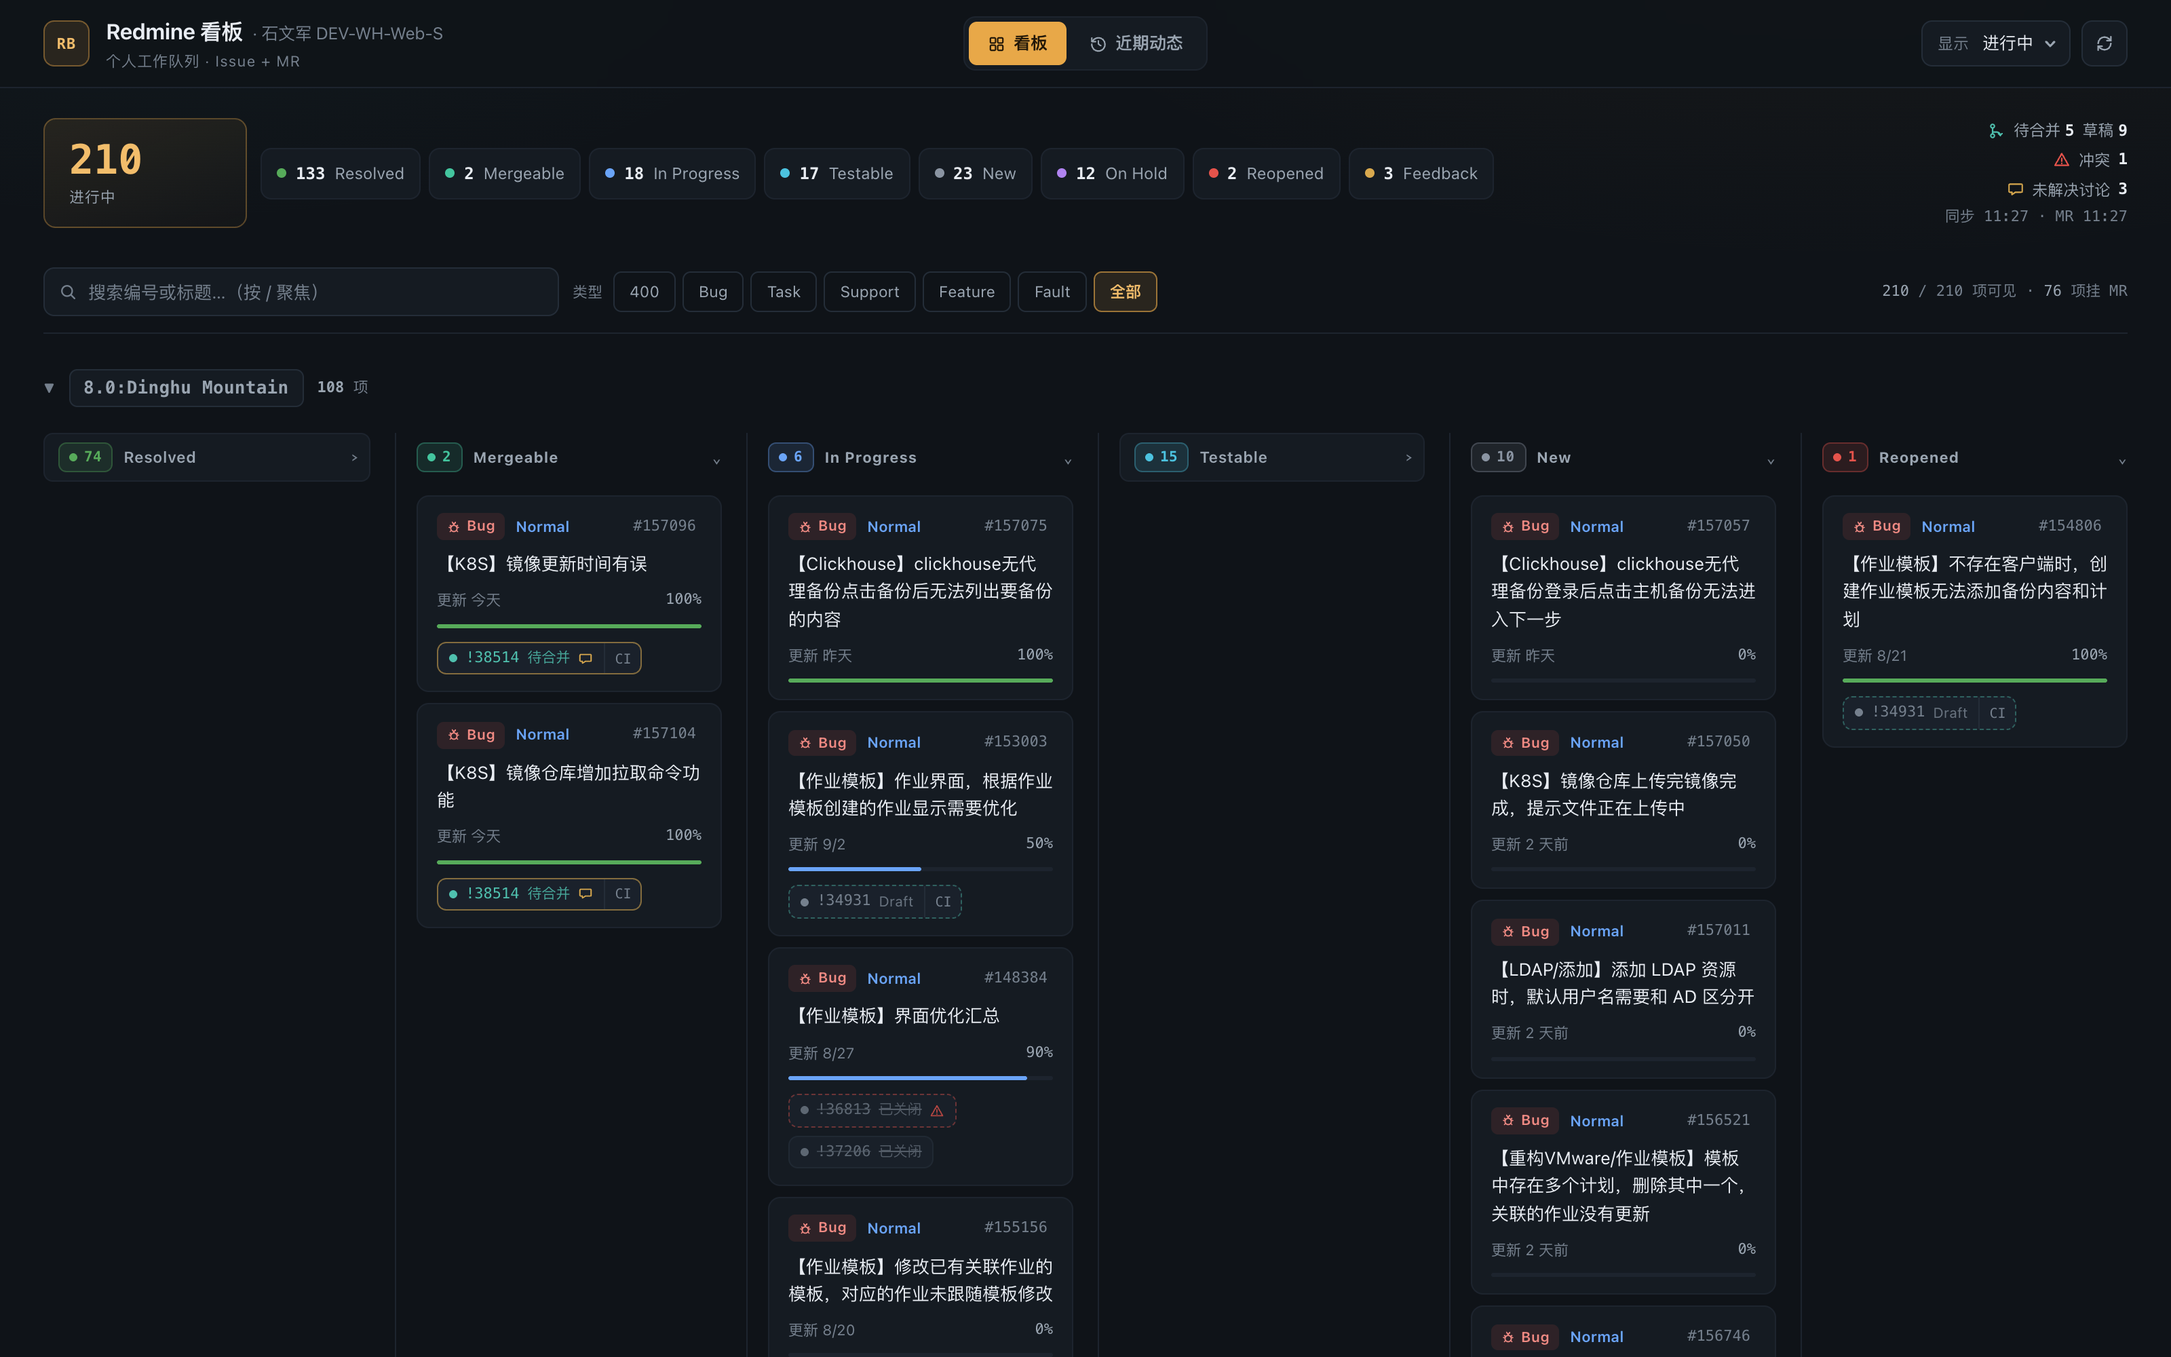
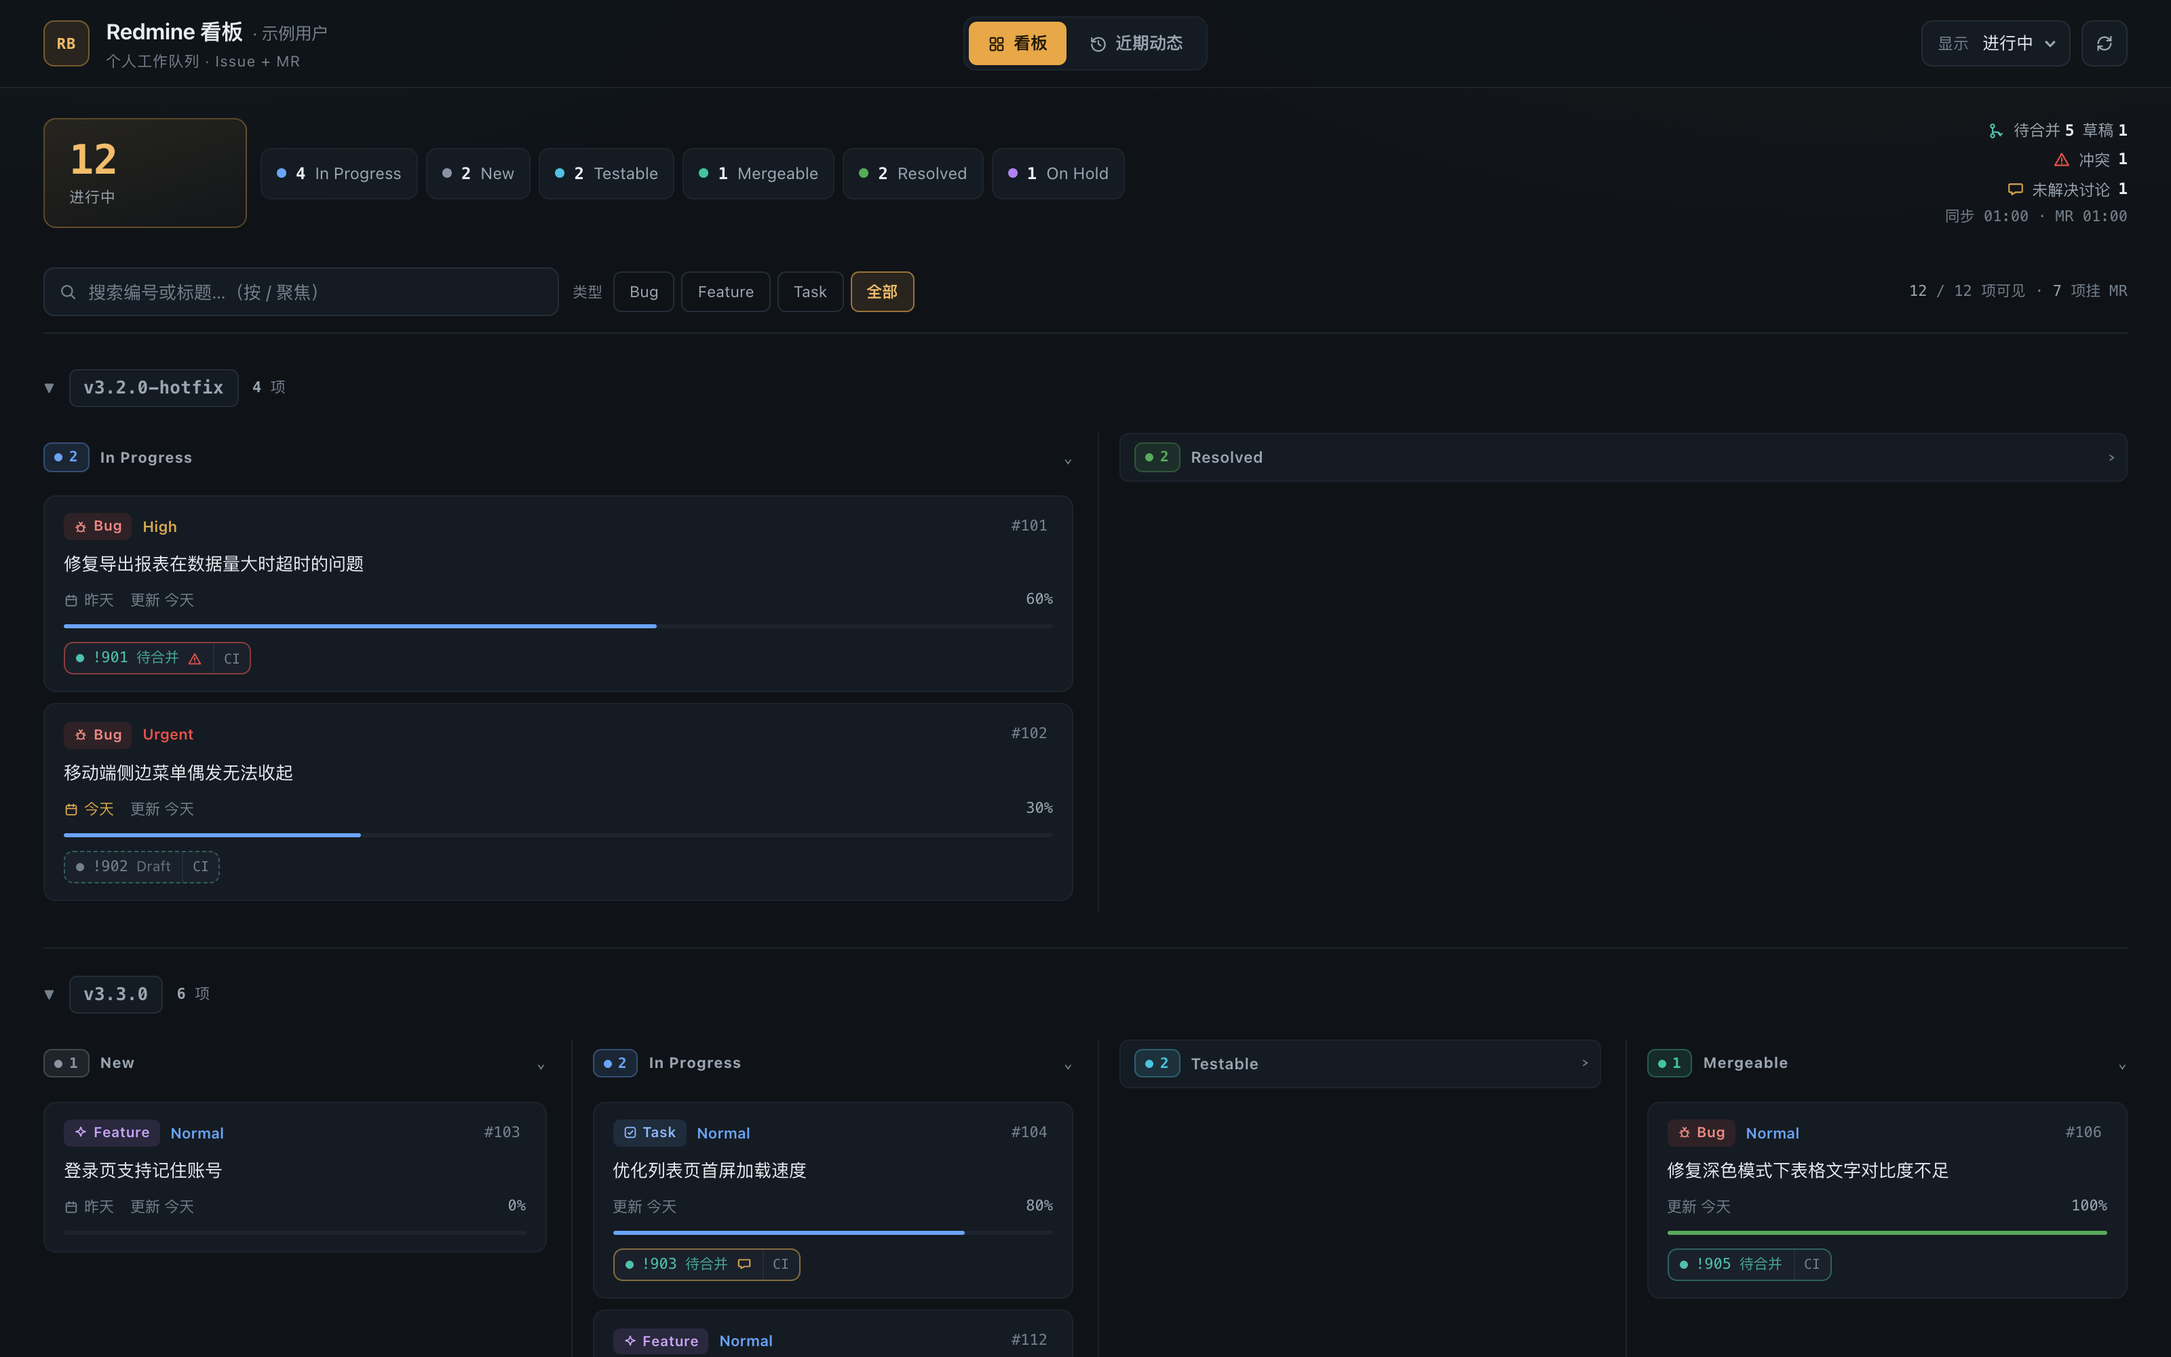
docs: README 重写为新手友好版；截图改为全演示数据；新增跨平台统一入口 start.js
- 截图经 API mock 重新生成（示例用户 + 通用任务标题），不再含真实姓名/公司信息
- README 按同事视角重组：三步跑起来 → 凭据 → 日常使用 → 常见问题 → 进阶靠后
- node start.js 三平台同命令（自动读 redmine CLI 凭据），.command/.bat 降为双击包装

diff --git a/start.js b/start.js
@@ -1,0 +1,38 @@
+#!/usr/bin/env node
+/**
+ * 通用启动入口 —— 所有平台同一命令：node start.js
+ *
+ * 自动读取 ~/.redmine-cli.yaml 里的 server 和 api_key（存在且未设环境变量时），
+ * 然后启动 server.js。平台专属的 .command / .bat / .sh 都只是本命令的双击包装。
+ *
+ * 用法：
+ *   node start.js
+ *   REDMINE_URL=https://xxx REDMINE_API_KEY=xxx node start.js
+ */
+const { spawn } = require('child_process');
+const fs = require('fs');
+const os = require('os');
+const path = require('path');
+
+// 从 redmine CLI 配置自动补凭据（环境变量优先）
+const cfgPath = path.join(os.homedir(), '.redmine-cli.yaml');
+if (fs.existsSync(cfgPath)) {
+  const text = fs.readFileSync(cfgPath, 'utf8');
+  const pick = (key) => {
+    const m = text.match(new RegExp('^\\s*' + key + ':\\s*(.+)$', 'm'));
+    return m ? m[1].trim().replace(/^["']|["']$/g, '') : '';
+  };
+  if (!process.env.REDMINE_URL) process.env.REDMINE_URL = pick('server');
+  if (!process.env.REDMINE_API_KEY) process.env.REDMINE_API_KEY = pick('api_key');
+}
+
+if (!process.env.PORT) process.env.PORT = '7788';
+
+const child = spawn(process.execPath, [path.join(__dirname, 'server.js')], {
+  stdio: 'inherit',
+  env: process.env,
+});
+child.on('close', (code) => process.exit(code == null ? 0 : code));
+['SIGINT', 'SIGTERM'].forEach((sig) => {
+  process.on(sig, () => child.kill(sig));
+});

diff --git a/README.md b/README.md
@@ -1,147 +1,119 @@
-# Redmine 个人看板
+# Redmine 看板
 
-一个轻量的可视化看板，聚合你在 Redmine 上的任务/Bug，按版本分组、状态分类展示，并自动关联你在 GitLab 上的 Merge Request 状态。替代慢且难用的 Redmine 网页筛选。
+把你的 Redmine 任务变成一块可视化看板，并自动关联你在 GitLab 的 Merge Request 状态。
 
 ![看板](docs/screenshot-board.png)
 
-![卡片上的 MR 徽标](docs/screenshot-mr.png)
+![卡片上的 MR 徽标（待合并 / Draft / 已合并 / 冲突 / 未解决讨论 / CI）](docs/screenshot-mr.png)
 
 ![移动端](docs/screenshot-mobile.png)
 
-## 特性
+## 它能帮你做什么
 
-- 📋 **按版本分组 + 状态分列**：一眼看清每个版本下各状态的任务分布
-- 🔀 **GitLab MR 状态同步**：issue 卡片直接显示关联 MR 的待合并/草稿/已合并/冲突状态，点击直达 MR 页面；opened 状态的 MR 可点 `CI` 按需查询流水线结果
-- 🎨 **状态颜色区分**：In Progress / Reopened / Resolved / Feedback 等各有配色
-- 🕐 **近期动态**：时间线展示你最近更新过的 issue（含 MR 徽标）
-- ⚡ **性能**：Redmine 分页并发拉取、聚合结果内存缓存、MR 独立请求不阻塞首屏、折叠列懒渲染、每 5 分钟自动同步
-- 📚 **完整分页**：自动读取 Redmine 的全部分页，搜索不会漏掉旧 issue
-- 🔒 **凭据安全**：Key 只存在后端（环境变量或本地 CLI 配置），前端拿不到
-- 🧩 **零依赖**：后端单文件 Node.js，前端单文件 HTML，无需 npm install
-- 🔗 **点击跳转**：任意卡片点击直达 Redmine 原文
-- 📱 **移动端适配**：响应式布局 + 触屏优化（40px+ 点击目标、iOS 输入框缩放与缓存兼容），手机浏览器直接访问
+- **一屏看清手上的活**：按版本分组、按状态分列，优先级、截止日期、进度一目了然
+- **自动关联 MR**：卡片上直接显示你的 GitLab MR 状态——待合并、Draft、已合并、⚠冲突、💬未解决讨论；点 `CI` 还能查流水线每个 job 的结果
+- **近期动态**：最近改过哪些任务，一条时间线
+- **搜索和筛选**：按 `/` 聚焦搜索，类型筛选，折叠状态会记住
+- **手机也能用**：响应式布局 + 触屏优化，浏览器直接访问
 
-## 快速开始
+## 三步跑起来
 
-### 方式一：零配置启动（推荐，适合自己电脑）
-
-前提：装好 Node.js（≥14），并且本机已配置过 redmine CLI（`redmine auth login`）。GitLab MR 状态会在检测到 glab CLI 登录后自动启用，无需额外配置。
+前提：电脑装了 [Node.js](https://nodejs.org)（≥14）。三条命令，三个平台（macOS / Windows / Linux）完全一样：
 
 ```bash
-bash start.sh          # 或 macOS 直接双击「Redmine看板.command」
+git clone https://github.com/OwenShi/redmine-dashboard.git
+cd redmine-dashboard
+node start.js
 ```
 
-浏览器自动打开 **http://localhost:7788**。凭据从 `~/.redmine-cli.yaml` 和 glab CLI 配置自动读取，不落仓库。
+然后浏览器打开 **http://localhost:7788**。（macOS 的 `Redmine看板.command`、Windows 的 `start.bat` 只是这条命令的双击包装，喜欢哪个用哪个。）
 
-### 方式二：环境变量启动
+第一次跑之前需要配一次凭据，见下。
+
+## 凭据怎么配（只需一次）
+
+看板需要知道「你是谁」才能拉你的任务。两种方式任选：
+
+**方式一：装 redmine CLI（推荐，之后全自动）**
+
+装好 CLI 后执行一次 `redmine auth login`。`start.js` 会自动读取它的配置，什么都不用再管。
+
+**方式二：环境变量（不想装 CLI）**
+
+1. 打开 Redmine 网页 → 我的帐户 → 右侧「API 访问密钥」→ 显示
+2. 启动时带上：
 
 ```bash
-REDMINE_API_KEY=你的key node server.js
-# 可选：GITLAB_URL / GITLAB_TOKEN 覆盖 GitLab 配置
+REDMINE_URL=https://你的redmine地址 REDMINE_API_KEY=你的key node start.js
 ```
 
-API Key 获取方式：Redmine → 我的帐户 → 右侧「API 访问密钥」→ 显示/重置
+**想显示 MR 状态（可选）**：装 [glab CLI](https://gitlab.com/gitlab-org/cli) 并 `glab login`，或设置 `GITLAB_TOKEN` 环境变量。不配也能用，只是卡片上没有 MR 徽标。
 
-### 给其他同事使用
+> 凭据只存在你自己电脑上（redmine CLI / glab 的本地配置或环境变量），仓库里没有任何人的密钥。
 
-1. 把仓库地址发给他，clone（或直接 zip 发目录）
-2. 凭据准备，两条路任选：
-   - **推荐**：装 redmine CLI 并 `redmine auth login`（之后启动脚本全自动，MR 状态需要 `glab login` 或设置 `GITLAB_TOKEN`）
-   - **没有 redmine CLI 也能用**：去 Redmine → 我的帐户 → 显示 API 访问密钥，然后 `REDMINE_URL=https://你的redmine地址 REDMINE_API_KEY=你的key node server.js`
-3. 启动（三平台都支持）：
-   - **macOS**：双击 `Redmine看板.command`
-   - **Windows**：双击 `start.bat`
-   - **Linux**：`bash start.sh`
-4. 每个人的凭据都读自各自电脑的本地配置（`~/.redmine-cli.yaml`、glab CLI 配置，macOS/Linux/Windows 路径均已适配），仓库里没有任何敏感信息
+## 日常使用
 
-## 使用说明
+- **两个标签**：看板（按版本分组） / 近期动态（最近 N 天改动）
+- **MR 徽标**：`!901 待合并` 这样的 token 就是关联的 MR，点击直达 MR 页面；右侧 `CI` 按钮弹出流水线详情（每个 job 的状态和用时，再点可刷新）；⚠红色=有冲突，💬琥珀色=有未解决讨论
+- **搜索**：按 `/` 聚焦搜索框，Esc 清除；可以搜编号或标题
+- **折叠**：点版本行或状态列头可以收起/展开，偏好会记住
+- **刷新**：右上角同步按钮强制刷新；页面开着时每 5 分钟自动同步
+- 页脚的 `b0910.x` 是构建号——怀疑页面没更新时核对它
 
-- **看板视图**：默认显示进行中（open）的任务。右上角下拉可切换「全部 / 仅已关闭」
-- **近期动态**：顶部切换标签，查看近 N 天你更新过的 issue
-- **MR 徽标**：卡片下方出现 `!38287` 样式的 token 即为关联 MR；`待合并/草稿/已合并/已关闭/⚠冲突` 一目了然，点 token 打开 MR 页面，点右侧 `CI` 按需查询流水线（再点一次强制刷新）
-- **刷新**：右上角同步按钮强制刷新；页面每 5 分钟在可见时自动同步
-- **交互技巧**：按 `/` 快速聚焦搜索（Esc 清除）；点版本区头/状态列头折叠，折叠状态会记住（刷新不丢）；一个 issue 挂多个 MR 时默认显示前 4 个，点 `+N` 展开；页脚的 `b0910.3` 是构建号，核对版本用
+## 常见问题
 
-## GitLab MR 关联机制
+| 问题 | 处理 |
+|------|------|
+| 显示「MR 状态不可用」 | `glab login` 一次，或设置 `GITLAB_TOKEN`；顶部提示条有重试按钮 |
+| 页面看起来是旧版本 | 核对页脚构建号；强制刷新（页面本身禁止缓存，一般不会发生） |
+| 数据不是最新的 | 后端有 60 秒缓存；点右上角同步按钮立即刷新 |
+| 换了一台电脑 | 凭据是跟着电脑走的，新机器重新配一次凭据即可 |
 
-后端拉取你创建的最近 100 条 MR（含 opened + 近期 merged/closed），前端按三级规则匹配到 issue，命中任意一级即挂上徽标：
+## 部署成常驻服务（可选）
 
-1. issue 自定义字段「分支名称」=== MR `source_branch`（精确，最可靠；若你的 Redmine 实例没有此字段，自动跳过，2/3 级匹配是通用的）
-2. MR 标题中的 `Refs #N` / `Fix #N` 引用
-3. 分支名中的数字 token（如 `hotfix/bug-150117-web` → 150117）
+不想每次手动启动，可以挂在服务器上：
 
-GitLab token 自动从 glab CLI 配置读取；不可用时看板正常工作，仅提示「MR 状态不可用」。可用环境变量 `GITLAB_URL` / `GITLAB_TOKEN` 覆盖。
+**Linux**
 
-## 性能设计
+```bash
+scp -r redmine-dashboard/ user@server:~/
+ssh user@server
+cd redmine-dashboard
+REDMINE_API_KEY=你的key REDMINE_URL=https://你的redmine nohup node server.js > board.log 2>&1 &
+```
+
+**Windows**：拷贝目录 + 装 Node.js 后，用 [NSSM](https://nssm.cc/) 注册服务（开机自启）：
+
+```bat
+nssm install redmine-board "C:\Program Files\nodejs\node.exe" "C:\redmine-dashboard\server.js"
+nssm set redmine-board AppEnvironmentExtra REDMINE_URL=https://你的redmine REDMINE_API_KEY=你的key
+nssm start redmine-board
+```
+
+> ⚠ 服务器可从公网访问时，务必加访问控制（防火墙白名单 / SSH 隧道 / Nginx + Basic Auth），否则工单数据对任何能连到端口的人可见。
+
+## 实现说明（进阶，用不上可跳过）
+
+**issue 和 MR 怎么关联上的**：后端拉取你创建的最近 100 条 MR，前端按三级规则匹配——① issue 自定义字段「分支名称」=== MR 分支名（精确；实例相关字段，没有则自动跳过）→ ② MR 标题里的 `Refs #编号` / `Fix #编号` → ③ 分支名里的数字（如 `hotfix/101-xxx` → 101）。命中任意一级即挂徽标，命中多级去重。
+
+**性能设计**：
 
 | 机制 | 说明 |
 |------|------|
-| 并发分页 | Redmine 分页先拉第一页拿总数，剩余页并发（上限 6），约 N×RTT → 2×RTT |
+| 并发分页 | Redmine 分页并发拉取（上限 6），约 N×RTT → 2×RTT |
 | 聚合缓存 | overview/recent 结果内存缓存 60s；`?force=1` 绕过 |
-| MR 缓存 | MR 列表缓存 120s；pipeline 按需查询缓存 60s |
-| 两段式渲染 | issue 先渲染，MR 数据独立请求到达后响应式补上徽标 |
-| 懒渲染 | 折叠的版本/状态列不渲染卡片 DOM，展开时才创建 |
-| 自动同步 | 每 5 分钟且页面可见时静默刷新，不闪骨架屏 |
+| MR 缓存 | MR 列表 120s；CI 按需查询 60s |
+| 两段式渲染 | issue 先渲染，MR 数据到达后增量补上徽标 |
 
-## 数据规模说明
-
-默认加载 open 状态。后端会自动处理 Redmine 的分页限制，因此搜索结果完整；切换「全部」时数据量较大，首次加载会稍慢属正常。
-
-## 部署到服务器
-
-本看板代码零改动即可部署到任意装了 Node.js（≥14）的服务器：
-
-### Linux
-
-```bash
-# 1. 拷贝整个目录到服务器
-scp -r redmine-dashboard/ user@server:~/
-
-# 2. 登录服务器，配好环境变量后启动
-ssh user@server
-cd redmine-dashboard
-REDMINE_API_KEY=你的key REDMINE_URL=https://redmine.example.com/redmine node server.js
-```
-
-常驻可用 nohup / systemd / pm2：
-```bash
-REDMINE_API_KEY=你的key nohup node server.js > dashboard.log 2>&1 &
-# 或 pm2 start server.js --name redmine-board
-```
-
-### Windows
-
-1. 把整个目录拷到服务器（如 `C:\redmine-dashboard`），安装 [Node.js LTS](https://nodejs.org/)
-2. 凭据二选一：
-   - 把自己电脑上的 `~/.redmine-cli.yaml` 拷到该机 `C:\Users\<用户名>\.redmine-cli.yaml`（MR 状态还需设置环境变量 `GITLAB_TOKEN`，或安装 glab CLI 并登录）
-   - 或直接设环境变量 `REDMINE_URL` / `REDMINE_API_KEY` / `GITLAB_TOKEN`
-3. 防火墙放行端口：`netsh advfirewall firewall add rule name="redmine-board" dir=in action=allow protocol=TCP localport=7788`
-4. 启动：双击 `start.bat`（调试用）；常驻自启推荐用 [NSSM](https://nssm.cc/) 注册为 Windows 服务：
-   ```bat
-   nssm install redmine-board "C:\Program Files\nodejs\node.exe" "C:\redmine-dashboard\server.js"
-   nssm set redmine-board AppDirectory C:\redmine-dashboard
-   nssm set redmine-board AppEnvironmentExtra REDMINE_URL=https://redmine.example.com/redmine REDMINE_API_KEY=你的key GITLAB_TOKEN=你的token
-   nssm start redmine-board
-   ```
-
-绑定的是 `0.0.0.0`，同内网的机器可直接通过 `http://服务器IP:7788` 访问。
-
-> ⚠ 若服务器可从公网访问，请务必加访问控制（安全组白名单 / SSH 隧道 / Nginx + Basic Auth），否则工单数据对任何能连到端口的人可见。
-
-## 文件说明
+**文件说明**：
 
 | 文件 | 作用 |
 |------|------|
-| `server.js` | 后端：代理 Redmine API + 数据聚合，零 npm 依赖 |
-| `index.html` | 前端：看板页面，内联样式，CDN 引入 Alpine.js |
-| `.env.example` | 配置模板 |
-| `README.md` | 本文件 |
-
-## 技术栈
-
-- **后端**：Node.js 内置模块（http/https/fs/os/path），零依赖
-- **前端**：原生 HTML/CSS/JS + Alpine.js（CDN）+ 内联 SVG 图标
-- **数据源**：Redmine REST API + GitLab REST API（内存缓存，无外部存储）
+| `start.js` | 通用启动入口（读凭据、起服务），三平台同一命令 |
+| `server.js` | 后端：代理 Redmine/GitLab API + 聚合缓存，零 npm 依赖 |
+| `index.html` | 前端：单文件页面（Alpine.js + 内联 SVG） |
+| `Redmine看板.command` / `start.bat` / `start.sh` | 各平台双击包装 |
+| `.env.example` | 环境变量配置模板 |
 
 ## 开发注意
 
@@ -149,9 +121,3 @@ REDMINE_API_KEY=你的key nohup node server.js > dashboard.log 2>&1 &
 - 启动脚本（`.command` / `start.sh`）保持 LF
 - **发版时更新页脚构建号**（`b0910.3` 这类标记）：页面以 `no-store` 下发防缓存，构建号用于核对客户端（尤其手机 Safari）是否拿到最新版本
 - **移动端视觉验证须用 WebKit 引擎**（如 Playwright 的 `webkit`，与 iOS Safari 同源）：Chrome 移动模拟在 select 渲染、行高计算等细节上与 iOS 存在差异，会漏掉真机问题
-
-## 后续可扩展
-
-- 加工时统计视图
-- 加 Nginx 反向代理 + Basic Auth 用于公网访问
-- 沉淀成 ZCode skill，`/redmine-board` 一键启动
